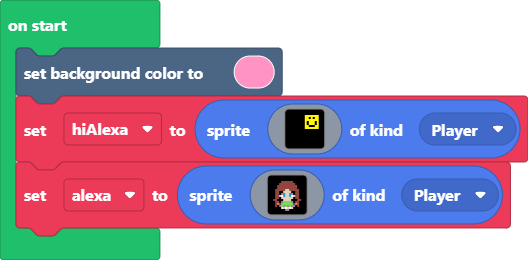
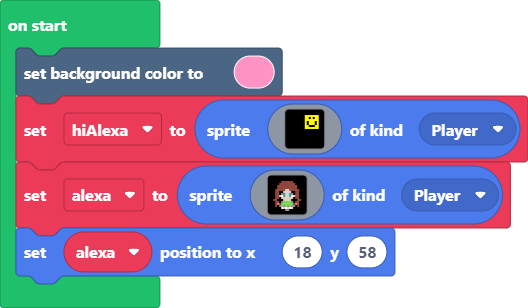
Update main.blocks, main.ts

diff --git a/main.ts b/main.ts
@@ -35,3 +35,4 @@ let alexa = sprites.create(img`
     . . . f f 1 d 1 d 1 d f f . . . 
     . . . . . f f b b f f . . . . . 
     `, SpriteKind.Player)
+alexa.setPosition(18, 58)
